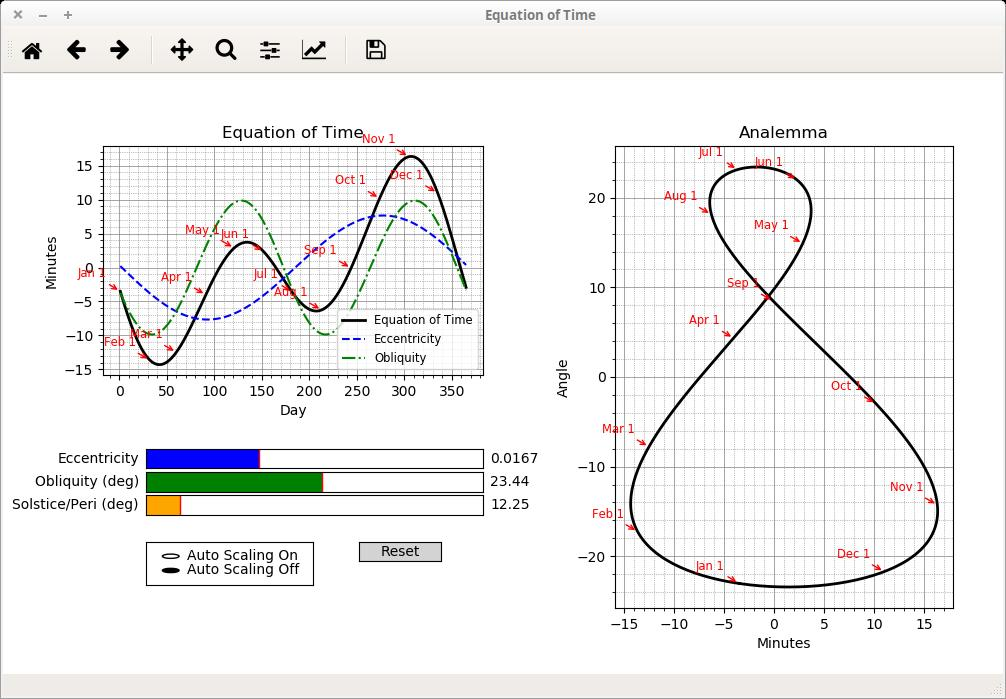
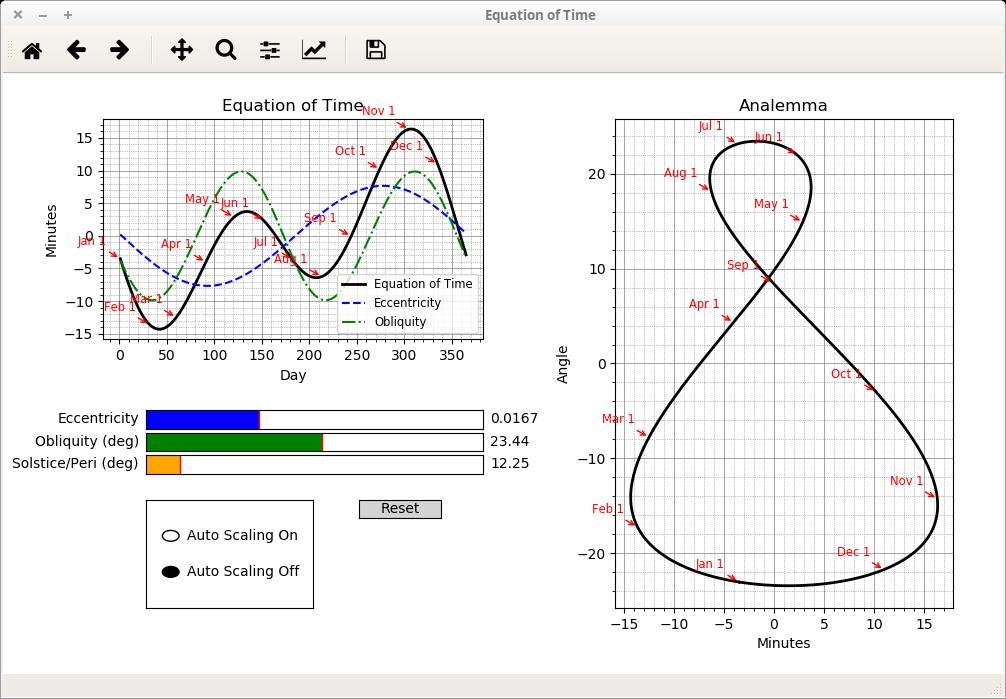
autoscaling works now after zoom and pan

diff --git a/eot_gui.py b/eot_gui.py
@@ -16,8 +16,8 @@ cal_dict = {1: 'Jan 1', 32: 'Feb 1', 60: 'Mar 1', 91: 'Apr 1', 121: 'May 1', 152
 scaling_on = False
 
 fig = plt.figure(figsize=(10, 6), num='Equation of Time')
-plt.subplots_adjust(left=0.100, right=.950, wspace=0.1)
-gs = GridSpec(20, 20, figure=fig)
+plt.subplots_adjust(top=.925, left=0.100, right=.950, wspace=0.1)
+gs = GridSpec(22, 20, figure=fig)
 
 eot_x, eot_y = eot.eot_gen(e, p_degs, axis_norm_degs, peri_day, orb_per, 1, 365)
 _, obl_y = eot.obl_gen(p_degs, axis_norm_degs, peri_day, orb_per, 1, 365)
@@ -43,7 +43,7 @@ for d, dt_lbl in cal_dict.items():
 
 
 days, dec_y, min_x = eot.analemma_gen(e, p_degs, axis_norm_degs, peri_day, orb_per)
-ax_analemma = plt.subplot(gs.new_subplotspec((0, 12), colspan=9, rowspan=20))
+ax_analemma = plt.subplot(gs.new_subplotspec((0, 12), colspan=9, rowspan=22))
 ax_analemma.set_title("Analemma")
 ax_analemma.minorticks_on()
 ax_analemma.grid(which='major', linestyle='-', linewidth=0.5, color='grey')
@@ -61,14 +61,15 @@ for d, dt_lbl in cal_dict.items():
 
 
 def update(val):
+    global eot_ann_list, analemma_ann_list
+
     e = slider_e.val
     axis_norm_degs = slide_obl_deg.val
     p_degs = slide_sol_peri.val
 
-    _, eot_y = eot.eot_gen(e, p_degs, axis_norm_degs, peri_day, orb_per, 1, 365)
+    eot_x, eot_y = eot.eot_gen(e, p_degs, axis_norm_degs, peri_day, orb_per, 1, 365)
     _, obl_y = eot.obl_gen(p_degs, axis_norm_degs, peri_day, orb_per, 1, 365)
     _, ecc_y = eot.ecc_gen(e, p_degs, peri_day, orb_per, 1, 365)
-
     eot_line.set_ydata(eot_y)
     ecc_line.set_ydata(ecc_y)
     obl_line.set_ydata(obl_y)
@@ -96,10 +97,24 @@ def update(val):
         analemma_ann_list.append(ann)
 
     if scaling_on:
-        ax_analemma.relim()
-        ax_analemma.autoscale_view()
-        ax_eot.relim()
-        ax_eot.autoscale_view()
+        xmin = min(eot_x)
+        xmax = max(eot_x)
+        ymin = min(eot_y + obl_y + ecc_y)
+        ymax = max(eot_y + obl_y + ecc_y)
+        if xmax != xmin:
+            ax_eot.set_xlim(xmin - 0.1 * (xmax - xmin), xmax + 0.1 * (xmax - xmin))
+        if ymax != ymin:
+            ax_eot.set_ylim(ymin - 0.1 * (ymax - ymin), ymax + 0.1 * (ymax - ymin))
+        xmin = min(min_x)
+        xmax = max(min_x)
+        ymin = min(dec_y)
+        ymax = max(dec_y)
+        if xmax != xmin:
+            ax_analemma.set_xlim(xmin - 0.1 * (xmax - xmin), xmax + 0.1 * (xmax - xmin))
+        if ymax != ymin:
+            ax_analemma.set_ylim(ymin - 0.1 * (ymax - ymin), ymax + 0.1 * (ymax - ymin))
+
+    fig.canvas.draw_idle()
 
 
 def scale_update(val):
@@ -107,11 +122,7 @@ def scale_update(val):
 
     if val == 'Auto Scaling On':
         scaling_on = True
-        ax_analemma.relim()
-        ax_analemma.autoscale_view()
-        ax_eot.relim()
-        ax_eot.autoscale_view()
-        fig.canvas.draw_idle()
+        update(val)
     else:
         scaling_on = False
 
@@ -137,7 +148,7 @@ slide_sol_peri = Slider(ax_slider_sol_peri, 'Solstice/Peri (deg)', 0.0, 120.0, v
                         facecolor='orange', dragging=True)
 slide_sol_peri.on_changed(update)
 
-ax_radio_scale = plt.subplot(gs.new_subplotspec((17, 1), colspan=4, rowspan=2))
+ax_radio_scale = plt.subplot(gs.new_subplotspec((17, 1), colspan=4, rowspan=5))
 radio_scale = RadioButtons(ax_radio_scale, ('Auto Scaling On', 'Auto Scaling Off'), active=1, activecolor='black')
 radio_scale.on_clicked(scale_update)
 
